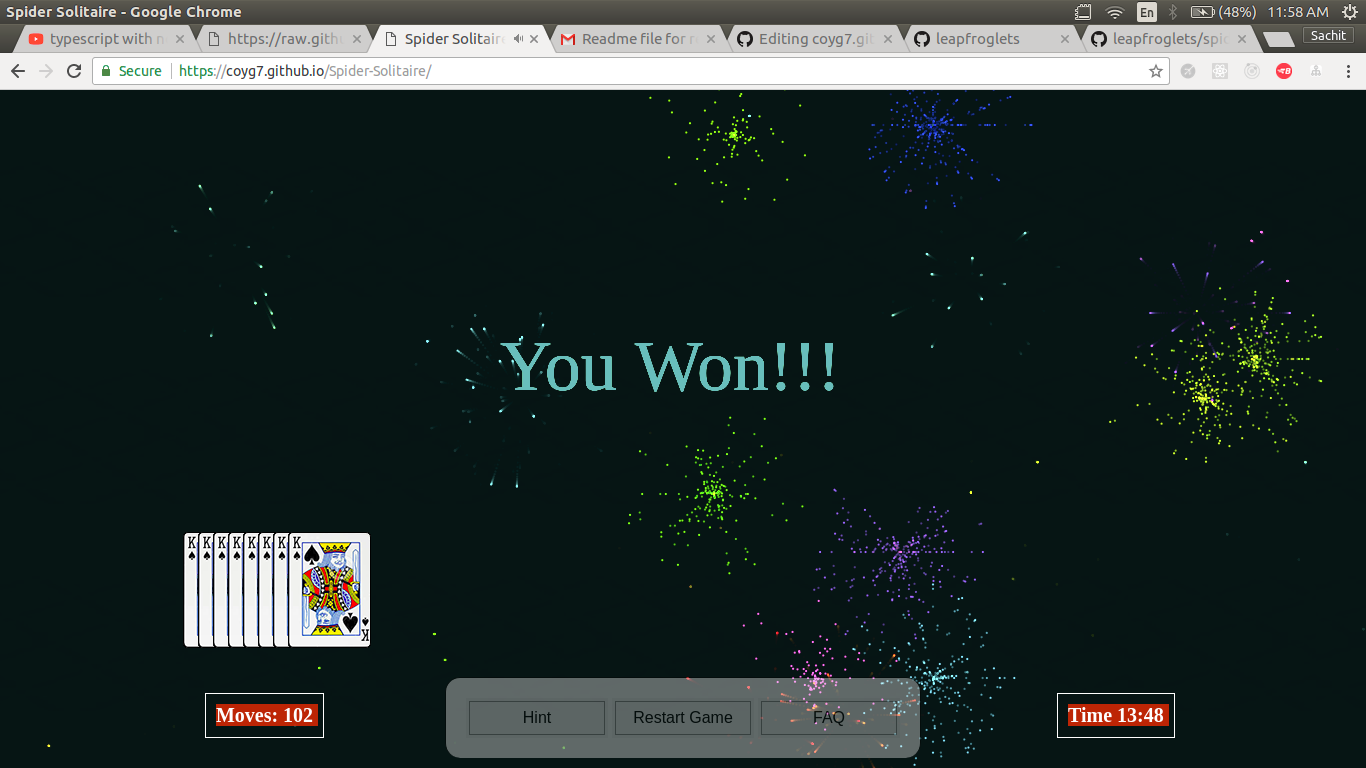
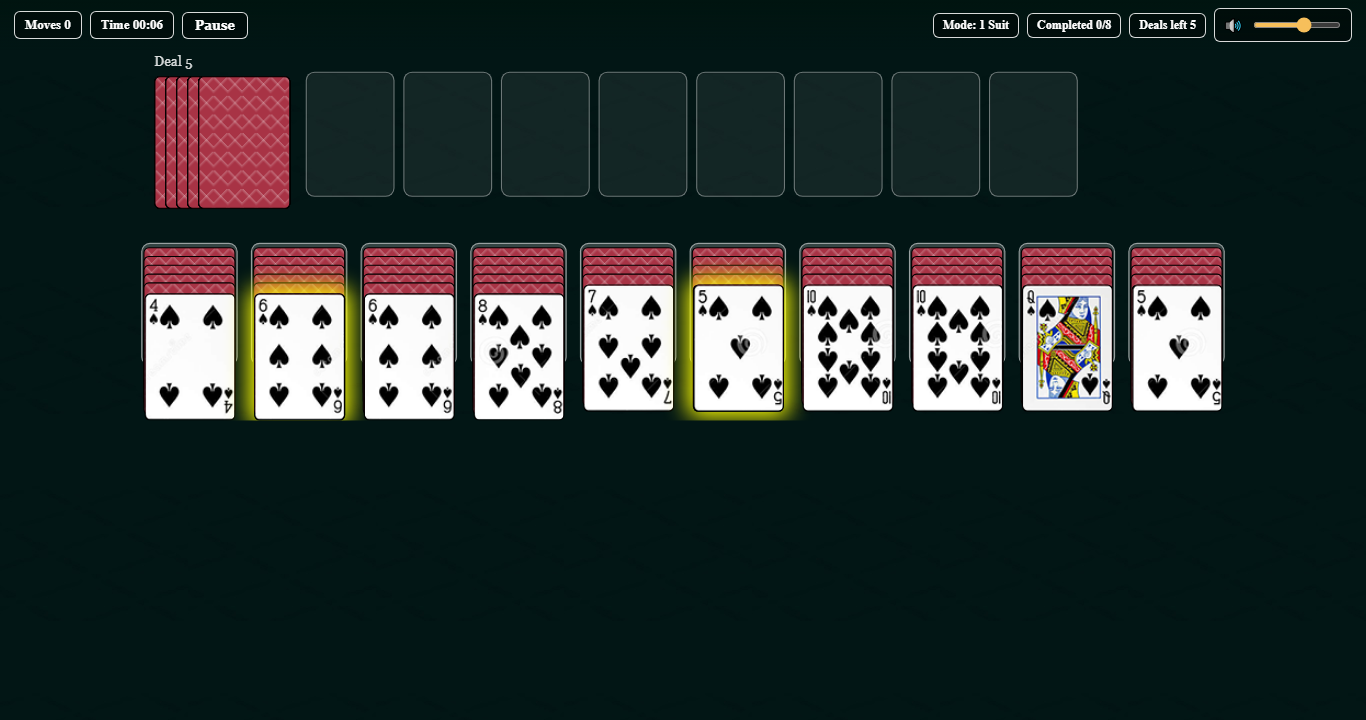
Update README screenshots to current SpiderImp UI.
Replace outdated bottom-bar screenshots with menu and 2-suit gameplay.

diff --git a/README.md b/README.md
@@ -31,14 +31,14 @@ Arrange same-suit cards from King to Ace. Completed sequences move to the Comple
 
 ## Screenshots
 
-Game Start  
-![UI](screenshots/Screenshot1.png)
+Main menu (2 suits recommended)  
+![Main menu](screenshots/Screenshot1.png)
 
-Mid game  
-![UI](screenshots/Screenshot2.png)
+Gameplay  
+![Gameplay](screenshots/Screenshot2.png)
 
-Game Over  
-![UI](screenshots/Screenshot3.png)
+Building runs (hint highlight)  
+![Building runs](screenshots/Screenshot3.png)
 
 ## Links
 
